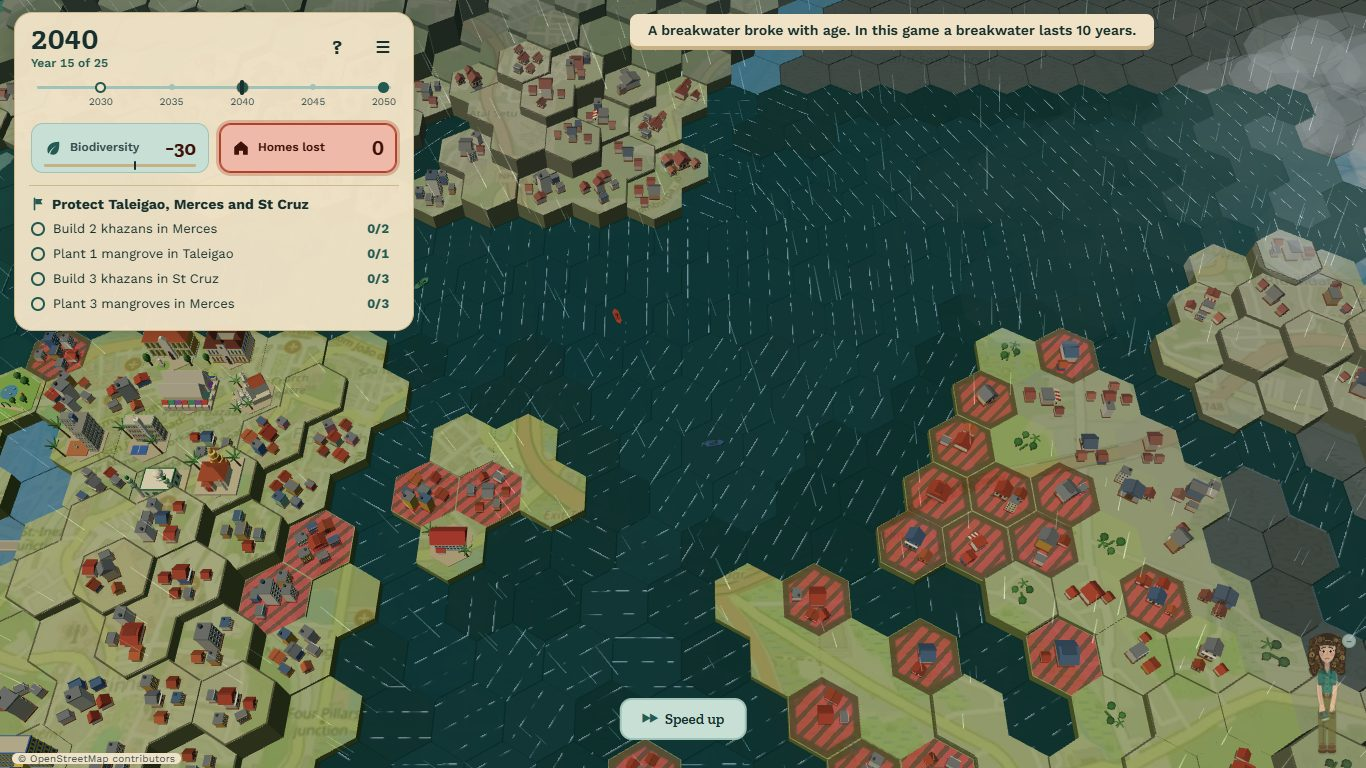
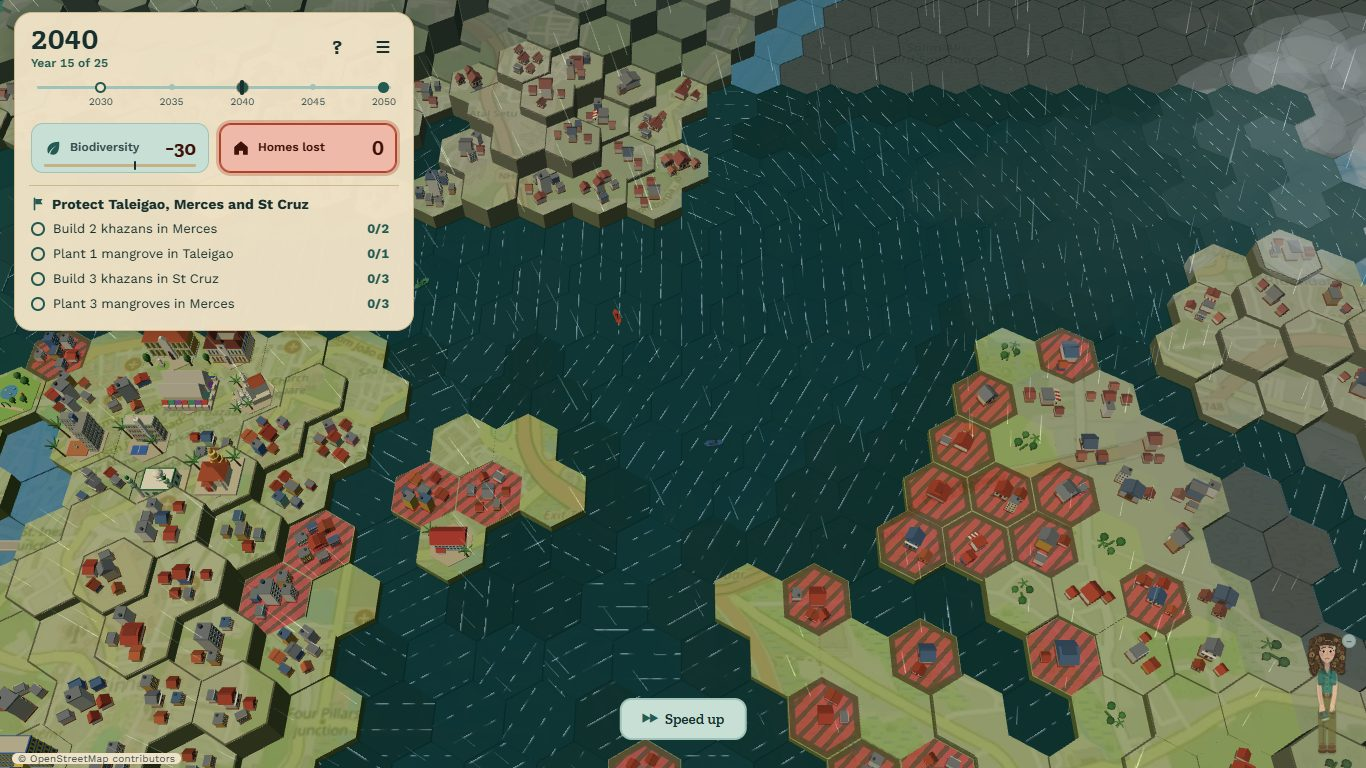
34b.15 The flood is muddy water, not night
The owner's mock up, Option B. On a river tile the flood is a radial gradient from the tile's centre: #7E6A48 (brown), #5D6260 at 55% (grey), #3F7F9E at the rim (the river's blue), 0.92 opaque at the centre to 0.70 at the rim, painted after the light so the colours are as given; foam lines (the flow streaks, the chop and the swell's crest) #DDE3D2 at 0.45 on river tiles only. Wet and flooded land take a flat #5D6260 at 0.60. Never on a sea tile (34b.14); khazans and the ruins keep their look. Shots of the 2040 flood held at 7 s and 14 s at 1366x768 and 1920x1080 in docs/qa/section34b/art/. As specified the gradient is per tile, so a wide flood reads as a pattern of hexes, each brown at its centre and blue at its rim.

diff --git a/src/render/storm/stormWater.ts b/src/render/storm/stormWater.ts
@@ -147,6 +147,12 @@ const FRAGMENT = /* glsl */ `
   uniform vec3 uKhazan;
   uniform float uPattern;
   uniform float uDetail;
+  // Section 34b.15: the river flood's own colours (the owner's mock up, Option B).
+  uniform vec3 uFloodCentre;
+  uniform vec3 uFloodMid;
+  uniform vec3 uFloodRim;
+  uniform vec3 uFloodLand;
+  uniform vec3 uFloodFoam;
   varying vec3 vWorld;
   varying vec3 vNormal;
   varying float vEdge;
@@ -167,6 +173,7 @@ const FRAGMENT = /* glsl */ `
     float kind = vWater.y;
     float alpha = vWater.w;
     if (alpha <= 0.002) discard;
+    float streak = 0.0;
     if (kind > 3.5) {
       // A defence answering on dry ground: a pale green rim that pulses, nothing inside.
       float rim = smoothstep(0.62, 0.9, vEdge) * (1.0 - smoothstep(0.97, 1.0, vEdge));
@@ -211,7 +218,7 @@ const FRAGMENT = /* glsl */ `
       vec2 dir = normalize(vFlow.xy + vec2(0.0001));
       float along = dot(vWorld.xz, dir);
       float across = dot(vWorld.xz, vec2(-dir.y, dir.x));
-      float streak = smoothstep(0.9, 1.0, fract(along * 1.6 - t * vFlow.z)) * smoothstep(0.35, 0.8, noise(vec2(across * 6.0, floor(along * 1.6 - t * vFlow.z))));
+      streak = smoothstep(0.9, 1.0, fract(along * 1.6 - t * vFlow.z)) * smoothstep(0.35, 0.8, noise(vec2(across * 6.0, floor(along * 1.6 - t * vFlow.z))));
       col = mix(col, vec3(0.86, 0.92, 1.0), streak * 0.55);
     }
 
@@ -242,6 +249,24 @@ const FRAGMENT = /* glsl */ `
       col = mix(col, vec3(0.8, 1.0, 0.95), shimmer);
     }
     col = mix(col, vec3(0.85, 1.0, 0.96), clamp(pulse, 0.0, 1.0) * 0.6);
+
+    // Section 34b.15 (owner's mock up, Option B): a river flood is muddy water, not night. On a river tile a radial
+    // gradient, brown at the centre (#7E6A48), grey at 55% (#5D6260), the river's own blue at the rim (#3F7F9E),
+    // 0.92 to 0.70 opaque, with foam lines (#DDE3D2 at 0.45) from the flow and the swell's crest; on wet and flooded
+    // land a flat #5D6260 at 0.60. Never on the sea (the river share is 0 there); a khazan keeps its own look.
+    float flood = river > 0.001 ? riverShare : 0.0;
+    if (flood > 0.0 && kind > 0.5 && kind < 1.5) {
+      float e = clamp(vEdge, 0.0, 1.0);
+      vec3 mud = mix(uFloodCentre, uFloodMid, smoothstep(0.0, 0.55, e));
+      mud = mix(mud, uFloodRim, smoothstep(0.55, 1.0, e));
+      float lines = clamp(chop + streak + clamp(crest, 0.0, 1.0) * 0.38, 0.0, 1.0);
+      mud = mix(mud, uFloodFoam, lines * 0.45);
+      col = mix(col, mud, flood);
+      alpha = mix(alpha, alpha / 0.86 * mix(0.92, 0.70, e), flood);
+    } else if (flood > 0.0 && kind > 1.5 && kind < 2.5) {
+      col = mix(col, uFloodLand, flood);
+      alpha = mix(alpha, alpha / 0.82 * 0.6, flood);
+    }
 
     gl_FragColor = vec4(col, alpha);
   }
@@ -293,6 +318,9 @@ export interface WaterFrame {
  * Section 34b.14: the storm sea's colour from the board's own sea (PALETTE.seaTurquoise): its lightness times `light`
  * (0.8 is 20% darker) and its saturation times `saturation`.
  */
+/** Section 34b.15: the river flood's colours, from the owner's mock up (Option B). */
+export const FLOOD = { centre: "#7E6A48", mid: "#5D6260", rim: "#3F7F9E", land: "#5D6260", foam: "#DDE3D2" } as const;
+
 export function stormSea(light: number, saturation: number): THREE.Color {
   const hsl = { h: 0, s: 0, l: 0 };
   PALETTE.seaTurquoise.getHSL(hsl);
@@ -334,6 +362,11 @@ export class StormWater {
         uBoth: { value: new THREE.Color("#5846a0") },
         uKhazan: { value: new THREE.Color("#4abec8") },
         uPattern: { value: 1 },
+        uFloodCentre: { value: new THREE.Color(FLOOD.centre) },
+        uFloodMid: { value: new THREE.Color(FLOOD.mid) },
+        uFloodRim: { value: new THREE.Color(FLOOD.rim) },
+        uFloodLand: { value: new THREE.Color(FLOOD.land) },
+        uFloodFoam: { value: new THREE.Color(FLOOD.foam) },
         uDetail: { value: quality === "low" ? 0 : 1 }
       }
     });

diff --git a/tools/section34bArt.ts b/tools/section34bArt.ts
@@ -18,6 +18,9 @@ const SIZES = (args.get("sizes") ?? "1366x768,1920x1080").split(",").map((s) => 
 const OUT = path.resolve(args.get("out") ?? "docs/qa/section34b/art");
 /** The storm times held, seconds (7 by default; 12 shows the cyclone near landfall, whole on screen). */
 const TIMES = (args.get("at") ?? "7").split(",").map(Number);
+/** Only these storms (cyclone-2030, flood-2040, finale-2050); all by default. walls=no leaves the walls out. */
+const ONLY = args.get("storms")?.split(",") ?? null;
+const WALLS = args.get("walls") !== "no";
 fs.mkdirSync(OUT, { recursive: true });
 const gpu = process.platform === "win32" ? ["--use-angle=d3d11", "--ignore-gpu-blocklist", "--enable-gpu"] : ["--use-gl=angle", "--use-angle=swiftshader", "--enable-unsafe-swiftshader", "--ignore-gpu-blocklist"];
 const browser = await chromium.launch({ args: gpu });
@@ -43,6 +46,7 @@ const scenario = (page: Page, name: string): Promise<boolean> => page.evaluate(`
 for (const [W, H] of SIZES) {
   const tag = `${W}x${H}`;
   for (const at of TIMES) for (const [name, before] of [["cyclone-2030", []], ["flood-2040", ["past-storm"]], ["finale-2050", ["past-storm", "past-storm"]]] as const) {
+    if (ONLY && !ONLY.includes(name)) continue;
     const page = await open(W, H);
     let ok = true;
     for (const step of before) ok = ok && (await scenario(page, step));
@@ -56,6 +60,7 @@ for (const [W, H] of SIZES) {
     await page.close();
   }
   // A seawall on the shore and a breakwater in the sea near Miramar, seen close.
+  if (!WALLS) continue;
   const page = await open(W, H);
   const built = (await page.evaluate(`(() => { const c = window.__panjimForTest; const m = c.host.landmarks.find((l) => /Miramar/.test(l.name)); const out = [];
     for (const id of ["seawall", "breakwater"]) { let best = null; for (const t of c.run.state.placed.values()) { if (!c.run.state.canBuild(t.coord, id)) continue; const d = Math.hypot(t.coord.q - m.q, t.coord.r - m.r); if (!best || d < best.d) best = { coord: t.coord, d }; }

diff --git a/tests/section34b.test.ts b/tests/section34b.test.ts
@@ -613,3 +613,17 @@ describe("34b.14: the art pass (render only, no change to what a storm takes)", 
     }
   });
 });
+
+describe("34b.15: the flood is muddy water, not night (the owner's mock up, Option B)", () => {
+  it("a river tile's flood is a radial gradient brown to grey to the river's blue, 0.92 to 0.70; flooded land flat grey at 0.60; foam lines on river tiles only; never on the sea", async () => {
+    const { FLOOD } = await import("../src/render/storm/stormWater");
+    expect(FLOOD).toEqual({ centre: "#7E6A48", mid: "#5D6260", rim: "#3F7F9E", land: "#5D6260", foam: "#DDE3D2" });
+    const water = readFileSync("src/render/storm/stormWater.ts", "utf8");
+    expect(water).toContain("mud = mix(uFloodCentre, uFloodMid, smoothstep(0.0, 0.55, e));");
+    expect(water).toContain("mud = mix(mud, uFloodRim, smoothstep(0.55, 1.0, e));");
+    expect(water).toContain("alpha = mix(alpha, alpha / 0.86 * mix(0.92, 0.70, e), flood);");
+    expect(water).toContain("mud = mix(mud, uFloodFoam, lines * 0.45);");
+    expect(water).toContain("alpha = mix(alpha, alpha / 0.82 * 0.6, flood);");
+    expect(water).toContain("look[i4 + 1] = slot.sea ? 0 : Math.max(flood, stored);");
+  });
+});
